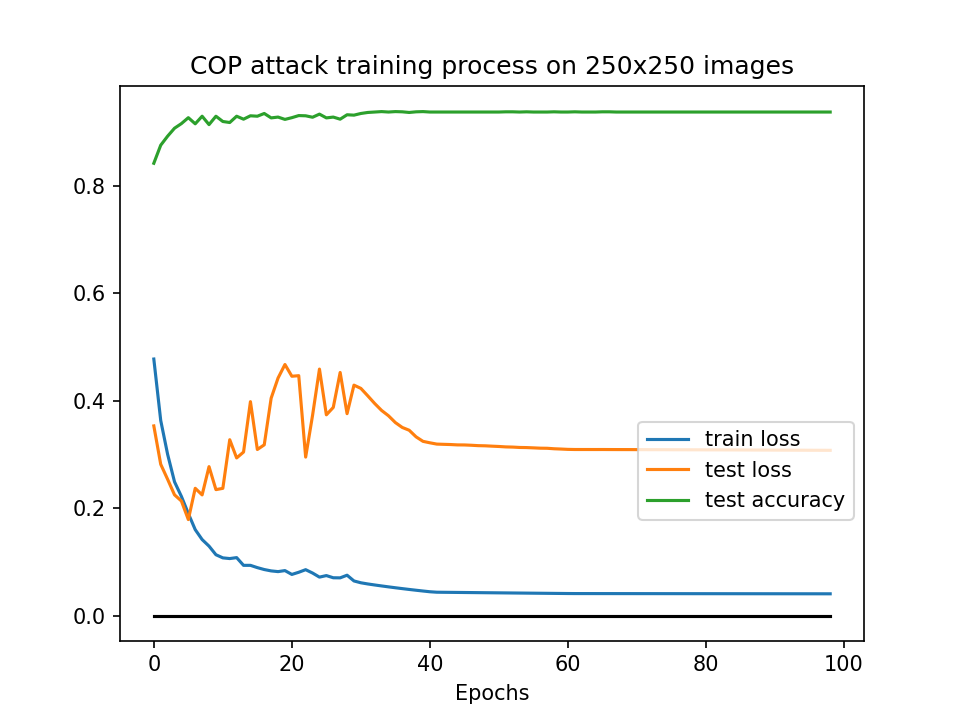
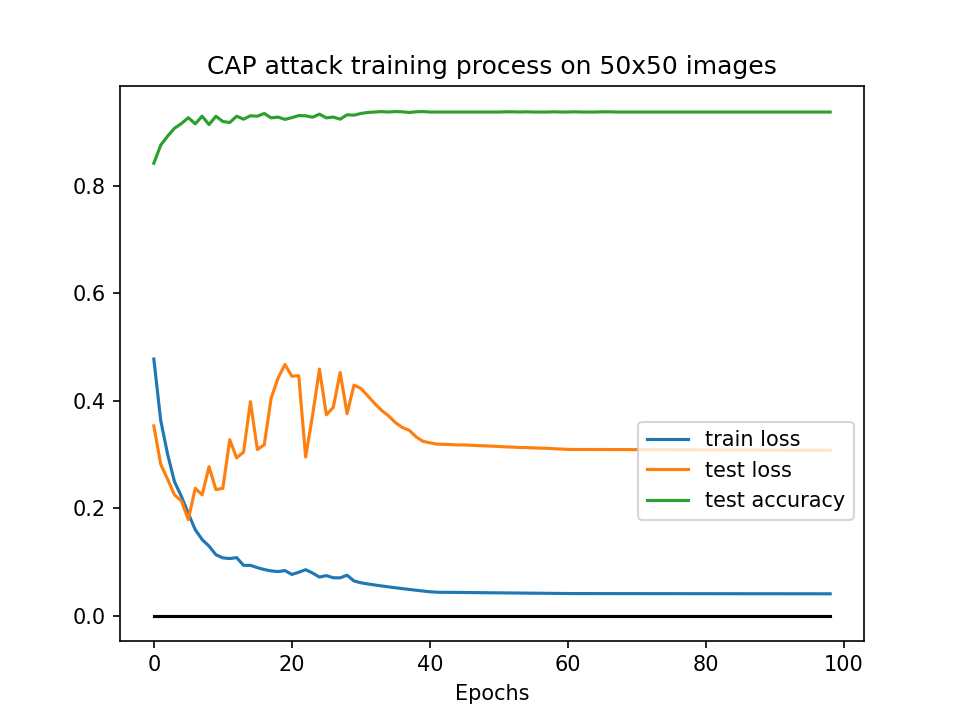
fixed resize errors, fixed wrong plot title

Changed region(s): [[0.2188, 0.0611, 0.8125, 0.1222]]

diff --git a/train_lfw.py b/train_lfw.py
@@ -72,9 +72,9 @@ def main(num_epochs=500, lr=0.1, attack=CAP, res_n=5, corr_ratio=0.0, mal_p=0.1,
     # Load the dataset
     sys.stderr.write("Loading data...\n")
     if limit != 13233:
-        X_train, X_test, y_train, y_test = load_lfw(resize=1, limit=limit)
+        X_train, X_test, y_train, y_test = load_lfw(resize=0.2, limit=limit)
     else:
-        X_train, X_test, y_train, y_test = load_lfw()
+        X_train, X_test, y_train, y_test = load_lfw(resize=0.2)
 
     """
     X_train = np.dstack((X_train[:, :1024], X_train[:, 1024:2048], X_train[:, 2048:]))

diff --git a/plot_loss.py b/plot_loss.py
@@ -72,7 +72,7 @@ plt.plot(df.index, df["test_loss"], label="test loss")
 plt.plot(df.index, df["acc"], label="test accuracy")
 plt.plot(df.index, numpy.zeros(df.shape[0]), color="black")
 plt.legend(loc='lower right', bbox_to_anchor=(1.0, 0.2))
-plt.title("COP attack training process on 250x250 images")
+plt.title("CAP attack training process on 50x50 images")
 plt.xlabel("Epochs")
 #plt.show()
 plt.savefig("results/CAP_loss.png", dpi=150)
